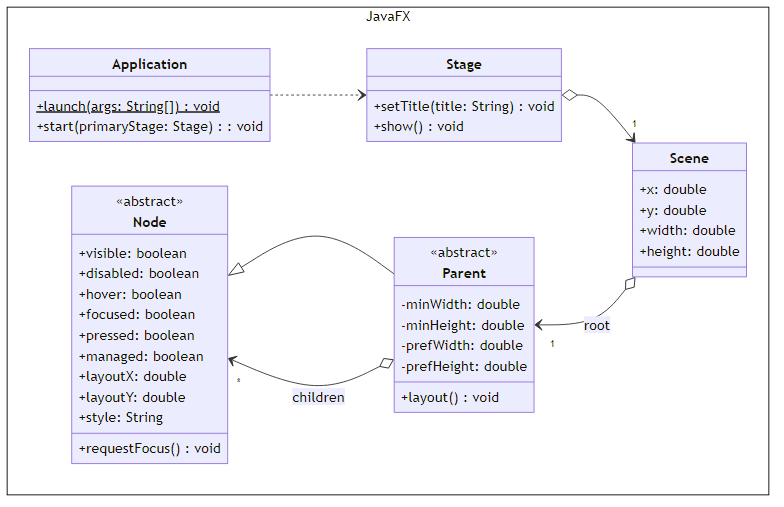
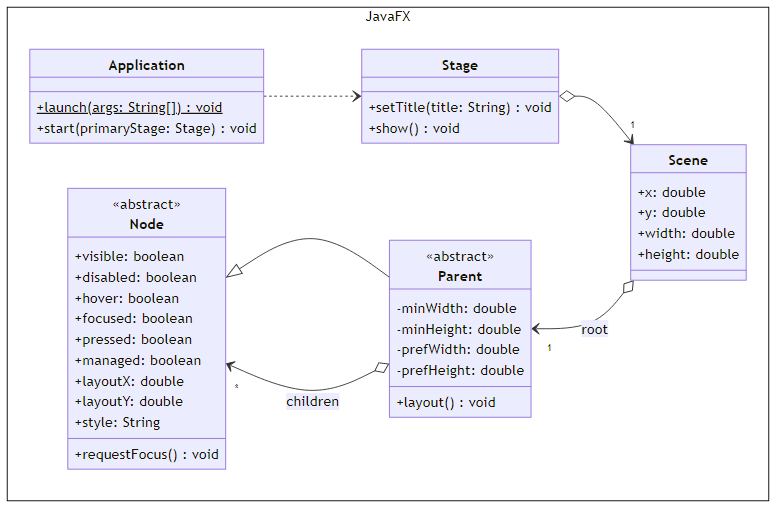
explain base classes of JavaFX applications

diff --git a/Grundlagen/JavaFX.md b/Grundlagen/JavaFX.md
@@ -3,7 +3,7 @@
 Dieses Dokument erklärt die Grundlagen der Entwicklung von grafischen Benutzerschnittstellen mit JavaFX.
 Im Kern biete JavaFX ein Objektmodell, mit welchem die grafische Benutzerschnittstelle beschrieben werden kann.
 Das Objektmodelle besteht aus einer Reihe unterscheidlicher Klassen, welche verschiedene Funktionen übernehmen.
-Zunächst musst die die folgenden fünf Klassen kennenlernen, welche den Ausgangspunkt einer JavaFX-Objektstruktur bilden:
+Zunächst solltest du die folgenden fünf Klassen kennenlernen, welche den Ausgangspunkt einer JavaFX-Objektstruktur bilden:
 
 * `Application` - Basisklasse einer JavaFX-Anwendung
 * `Stage` - Fenster zur Darstellung von Inhalten
@@ -46,11 +46,18 @@ Insbesondere gehen wir auf die Vererbungsstruktur der Klassen, welche die Gemein
 
 ## 1. Anwendungen
 
-TODO
+Starten wir mit den wichtigsten fünf Klassen einer JavaFX-Anwendung wie in folgender Grafik dargestellt.
+Zunächst besteht jede JavaFX-Anwendung aus einer Instanz der abstrakten Klasse `Application`, von welcher wir eine konkrete Unterklasse ableiten müssen.
+Diese Klasse bekommt zur Laufzeit wiederum Zugriff auf eine Instanz der Klasse `Stage`, welche ein Fenster zur Ausgabe von grafischen Inhalten repräsentiert.
+Die Inhalt des Fensters werden wiederum durch eine Instanz der Klasse `Scene` dargestellt, welche außerdem die Lage und die Größe des Fensters bestimmt.
+Der Inhalt der Szene wird schließlich durch Instanzen der Klasse `Node` bzw. der Unterklasse `Parent` beschrieben, welche letztlich baumartige Knotenstrukturen definieren.
 
 ![](../Grafiken/JavaFX/Stage.svg)
 
-TODO
+Wenn wir nun eine JavaFX-Anwendung erstellen wollen, müssen wir zunächst eine Klasse anlegen, welche von der abstrakten Basisklasse `Application` erbt.
+Unsere Klasse sollte eine statische Hauptroutine beinhalten, welche bei Anwendungsstart zur Ausführung kommt und die statische Methode `launch(...)` aufruft.
+Außerdem muss unsere Klasse die Objektmethode `start(...)` implementieren, welche implizit durch den Aufruf der statischen Methode `launch(...)` zur Ausführung kommt.
+Der Objektmethode `start(...)` wird schließlich eine Instanz der Klasse `Stage` übergeben, welche wir zur Konfiguration der Fensterinhalte verwenden können.
 
 ```java
 import javafx.application.Application;
@@ -61,43 +68,55 @@ public class Program extends Application {
 
     // Hauptroutine
     public static void main(String[] args) {
+        // Aufruf der statischen launch-Methode
         Application.launch(args);
     }
 
     // Startmethode
     @Override
     public void start(Stage primaryStage) {
+        // Konfiguration der Fensterinhalte
         ...
     }
 
 }
 ```
 
-TODO
+Innerhalb der Objektmethode `start(...)` müssen wir zunächst die Inhalte des Fensters in Form einer baumartigen Knotenstruktur erzeugen.
+Wie jede baumartige Struktur benötigen auch diese Struktur zumindest einen Wurzelknoten, welcher von der Klasse `Parent` abgeleitet ist.
+Welche Knotentypen sich in JavaFX konkret dafür eignen, werden wir im späteren Verlauf des Kurses noch genauer betrachten.
 
 ```java
 import javafx.scene.Parent;
 
-// Inhalt erzeugen
-Parent root = ...
+        ...
+        // Inhalt erzeugen
+        Parent root = ...
+        ...
 ```
 
-TODO
+Sobald die Knotenstruktur erstellt wurde, kann diese in eine Szene eingefügt werden, welche durch die Klasse `Scene` repräsentiert wird.
+Neben dem Wurzelknoten der Knotenstruktur muss die Szene noch die Breite und die Höhe des Fenster in Pixeln kennen.
+Beachte, dass die Werte für die Höhe und die Breite des Fensters nur gelten, wenn das Fenster nicht im maximierten Zustand angezeigt wird.
+Im maximierten Zustand bestimmen die Bildschirmauflösung sowie die vom Betriebssystem anzeigte Elemente (z.B. Menüband am unteren Rand) die tatsächliche Fenstergröße.
 
 ```java
 import javafx.scene.Scene;
 
-// Höhe in Pixeln definieren
-int width = ...
-
-// Breite in Pixeln definieren
-int height = ...
-
-// Szene erzeugen
-Scene scene = new Scene(root, width, height) 
+        ...
+        // Höhe in Pixeln definieren
+        int width = ...
+        // Breite in Pixeln definieren
+        int height = ...
+        // Szene erzeugen
+        Scene scene = new Scene(root, width, height) 
+        ...
 ```
 
-TODO
+Schließlich können wir das Szenenobjekt an die Instanz der Klasse `Stage` übergeben.
+Außerdem können wir den Titel des Festers über die Instanz der Klasse `Stage` konfigurieren.
+Schließlich müssen wir auf derselben Instanz noch die Methode `show()` aufrufen, um das Fenster auch tatsächlich sichtbar zu machen.
+Und schon haben wir eine erste JavaFX-Anwendung realisiert!
 
 ```java
 // Stage konfigurieren und anzeigen
@@ -106,7 +125,7 @@ primaryStage.setScene(scene);
 primaryStage.show();
 ```
 
-## 2. Farben
+## 2. Farbfüllungen
 
 TODO
 
@@ -124,7 +143,7 @@ TODO
 
 ![](../Grafiken/JavaFX/Node.svg)
 
-## 5. Eltern
+## 5. Elternknoten
 
 TODO
 
